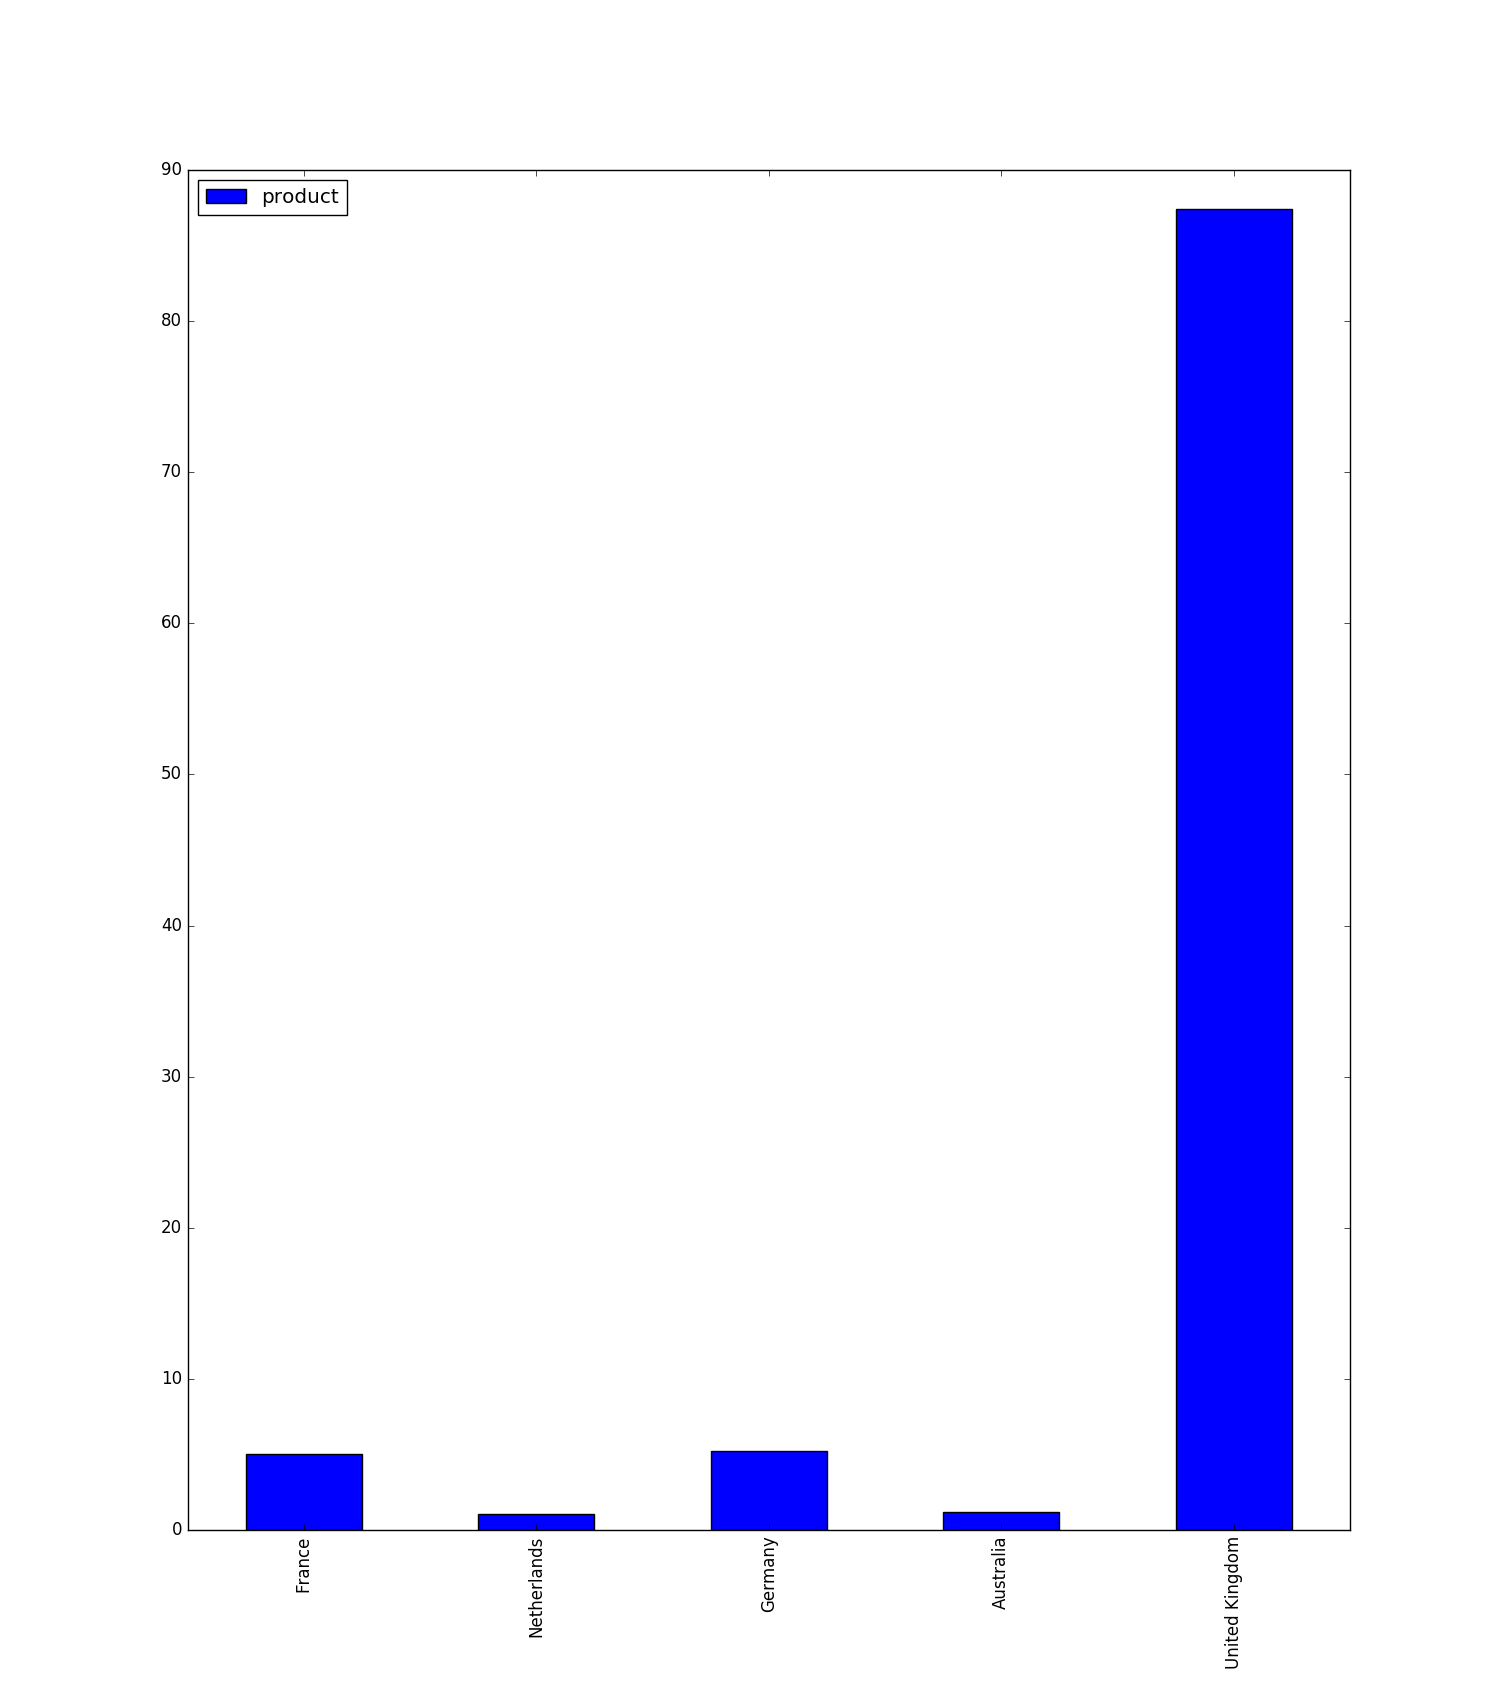
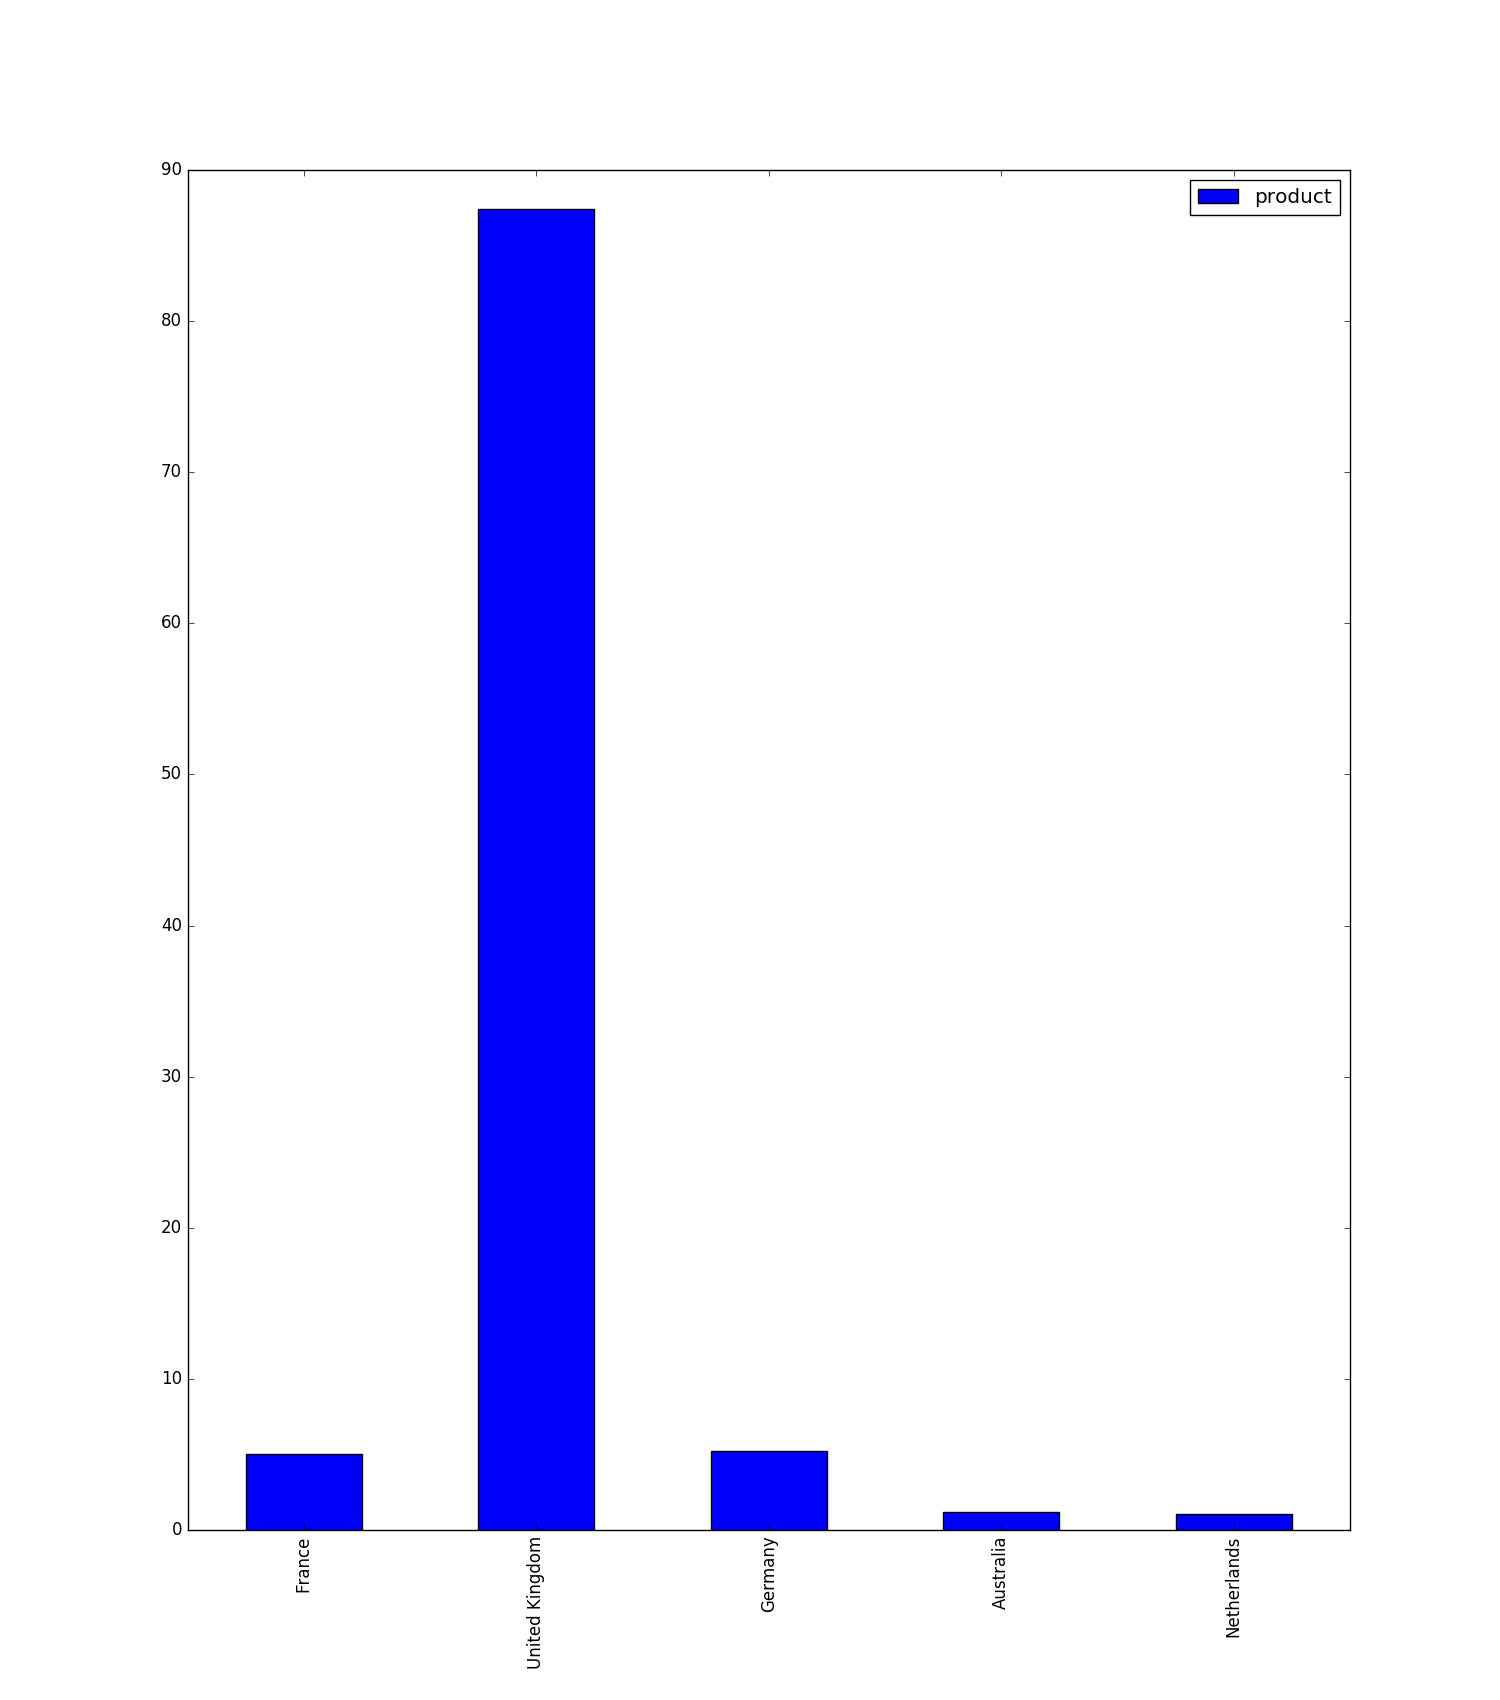
new feature generate graphic

Changed region(s): [[0.7667, 0.0935, 0.8893, 0.9665], [0.3067, 0.1247, 0.3987, 0.9665], [0.1227, 0.0935, 0.2453, 0.1247]]

diff --git a/service.py b/service.py
@@ -33,6 +33,15 @@ class Service:
     def generate_graphic_sale_date(self,product_id,dt_begin,dt_end):
         data_sale_product=insights.product_sale_date(self.df_main,product_id,dt_begin,dt_end)
         graphic.generate_graphic_sale_date(data_sale_product)
+    
+    def generate_graphic_sale_country(self):
+        data_sale_country = insights.percent_product_country(self.df_main)
+        graphic.generate_graphic_sale_country(data_sale_country)
+
+    def generate_graphic_sale_product(self,product):
+        data_price_sale=insights.price_and_quantity_sale_product(df_main,product)
+        graphic.generate_graphic_sale_product(data_price_sale)
+
 service=Service()
 df_main =service.df_main 
 print(service.product_more_sale_country("United Kingdom"))
@@ -40,11 +49,7 @@ print(service.best_client())
 print(service.price_max_and_min('RED TOADSTOOL LED NIGHT LIGHT'))
 print(service.percentage_product('RED TOADSTOOL LED NIGHT LIGHT'))
 service.generate_graphic_sale_date('71053','2010-01-01','2010-12-30')
-#data_sale_product=insights.product_sale_date(df_main,'71053','2010-01-01','2010-12-30')
-#data_sale_country = insights.percent_product_country(df_main)
-#data_price_sale=insights.price_and_quantity_sale_product(df_main,'RED TOADSTOOL LED NIGHT LIGHT') 
+service.generate_graphic_sale_country()
+service.generate_graphic_sale_product('RED TOADSTOOL LED NIGHT LIGHT')
 
-#graphic.generate_graphic_sale_date(data_sale_product)
-#graphic.generate_graphic_sale_country(data_sale_country)
-#graphic.generate_graphic_sale_product(data_price_sale)
    

diff --git a/sales_insights.py b/sales_insights.py
@@ -5,7 +5,7 @@ from datetime import datetime
 import graphic 
 
 def treating_csv():
-    df = pd.read_csv('./data.csv')
+    df = pd.read_csv('./data_test.csv')
     df.drop('InvoiceNo',axis=1,inplace=True)
     df = df[(df['Quantity'] > 0)]
     return df
